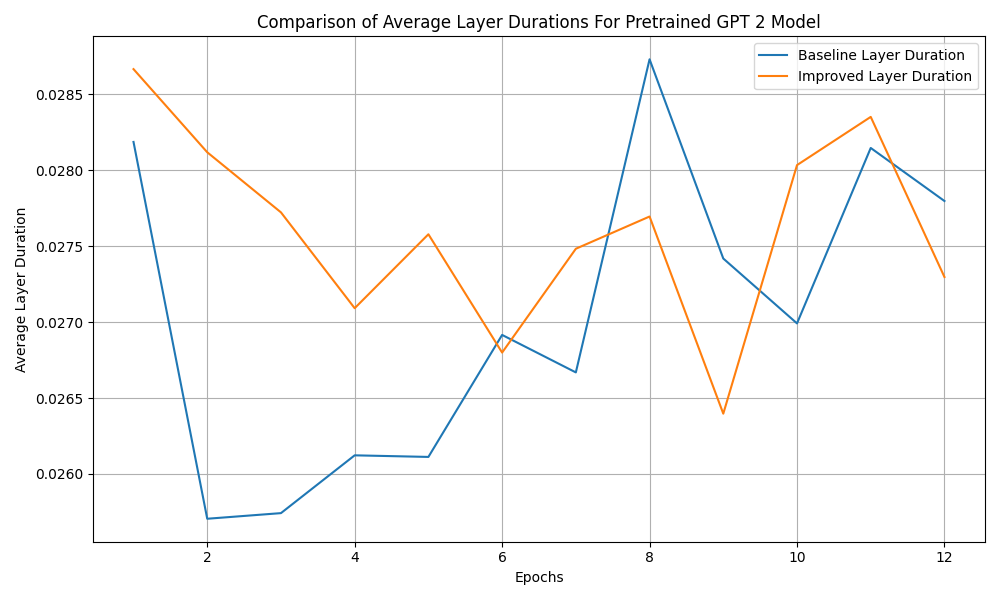
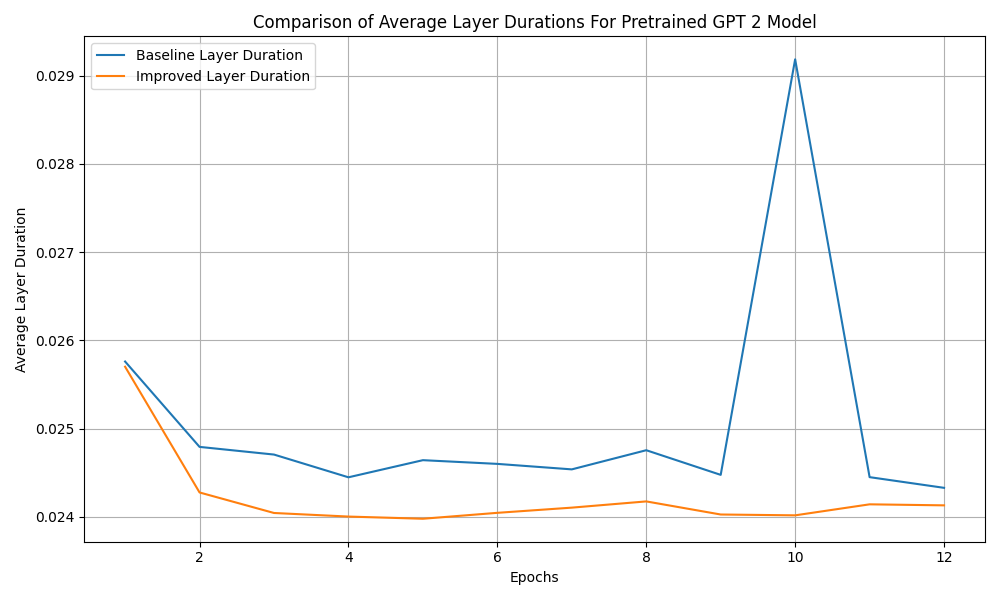
finegrained results for gpt2 model

diff --git a/gpt2_model/plot_gpt_results.py b/gpt2_model/plot_gpt_results.py
@@ -2,14 +2,10 @@ from gpt2_baseline import gpt2_baseline
 from gpt2_improved_edp import gpt2_improved_edp
 from util import make_plot
 from datasets import load_dataset
+from datetime import datetime
 
-def plot_gpt_2_results():
-    dataset = load_dataset('ag_news', split='test[:20]') 
-    test_dataset = [item['text'] for item in dataset]
 
-    average_baseline_duration, average_layer_durations, average_edp_values = gpt2_baseline(test_dataset)
-    average_layer_durations_improved, average_edp_values_improved = gpt2_improved_edp(test_dataset)
-
+def plot_gpt_2_results(average_layer_durations, average_edp_values, average_layer_durations_improved, average_edp_values_improved):
     epochs = range(1, len(average_layer_durations) + 1)
 
     make_plot(
@@ -35,4 +31,27 @@ def plot_gpt_2_results():
     )
 
 if __name__ == "__main__":
-    plot_gpt_2_results()
+    print(f"Start time: {datetime.now()}")
+    dataset = load_dataset('ag_news', split='test[:500]') 
+    test_dataset = [item['text'] for item in dataset]
+
+    average_baseline_duration, average_layer_durations, average_edp_values = gpt2_baseline(test_dataset)
+    average_layer_durations_improved, average_edp_values_improved = gpt2_improved_edp(test_dataset)
+
+    layer_duration_percentange_improvements = []
+    for i, (average_layer_duration, average_layer_duration_improved) in enumerate(zip(average_layer_durations, average_layer_durations_improved)):
+        percentage_improvement = ((average_layer_duration - average_layer_duration_improved) / average_layer_duration) * 100
+        layer_duration_percentange_improvements.append(percentage_improvement)
+
+    print(f"average_layer_durations: {average_layer_durations}")
+    print(f"average_layer_durations_improved: {average_layer_durations_improved}")
+    print(f"layer_duration_percentange_improvements: {layer_duration_percentange_improvements}")
+
+    plot_gpt_2_results(average_layer_durations, average_edp_values, average_layer_durations_improved, average_edp_values_improved)
+    print(f"End time: {datetime.now()}")
+
+'''
+average_layer_durations: [0.02575966 0.02479245 0.02470555 0.0244479  0.02464197 0.02459989 0.02453771 0.02475476 0.02447546 0.02918374 0.02444964 0.02432861]
+average_layer_durations_improved: [0.025700855731964112, 0.02427613115310669, 0.02404357099533081, 0.024003088951110838, 0.023978307247161865, 0.02404534673690796, 0.024104203701019285, 0.024174737453460694, 0.024026403903961182, 0.024016987800598143, 0.02414171552658081, 0.024130097389221193]
+layer_duration_percentange_improvements: [0.22827216168073758, 2.0825589982508057, 2.679466245281016, 1.8194121443727358, 2.693223675749727, 2.254244330336835, 1.7666930493253714, 2.3430720974198866, 1.8347237753367238, 17.70421447484915, 1.2594398554294524, 0.8159789572884124]
+'''
